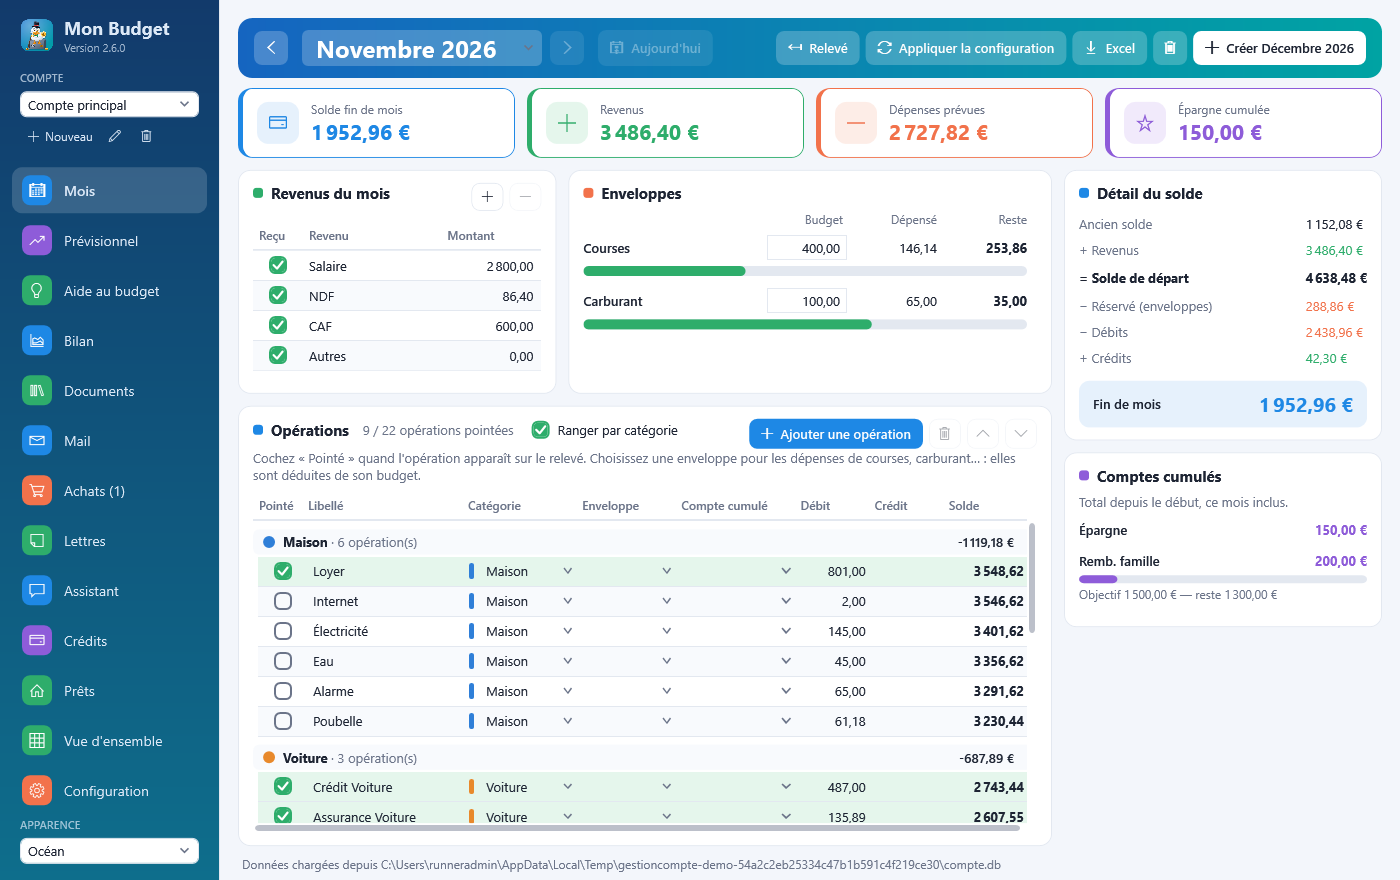
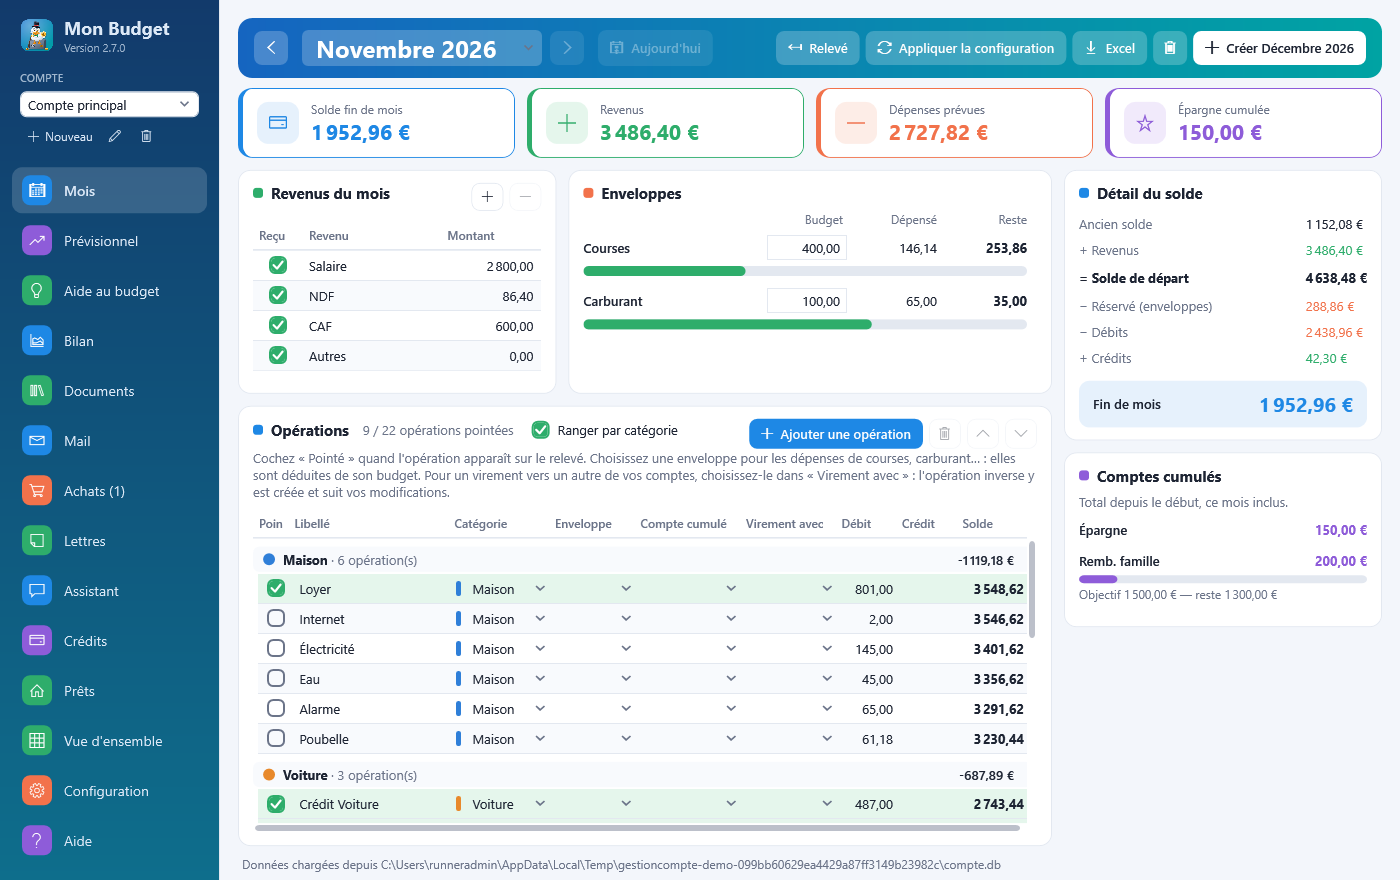
2.7.0 : liste des chapitres lisible en mode sombre, colonne Virement avec élargie, captures du manuel [skip ci]
Claude-Session: https://claude.ai/code/session_01Xu3fDh8oY8WgRR6QbamwNR

diff --git a/docs/manuel/manuel.html b/docs/manuel/manuel.html
@@ -121,6 +121,11 @@ th { color: var(--doux); font-weight: normal; font-size: 8.5pt; text-transform: 
 </section>
 
 <section class="page">
+  <h3>Virements entre vos comptes</h3>
+  <figure class="grand"><img src="images/33-virement-lie-ocean.png" alt="Virement lié"><figcaption>« Virement vers le livret » : 200 € débités ici sont crédités automatiquement dans « Livret A ».</figcaption></figure>
+</section>
+
+<section class="page">
   <h2>4. Importer un relevé</h2>
   <p>Téléchargez le relevé sur le site de votre banque au format <b>OFX</b>, puis « Relevé » (onglet Mois) ou « Importer un relevé… » (barre de gauche). Le fichier est lu sur votre PC uniquement.</p>
   <figure><img src="images/12-import-ocean.png" alt="Import du relevé"><figcaption>Chaque ligne du relevé est rapprochée d'une opération prévue ou ajoutée.</figcaption></figure>

diff --git a/src/GestionCompte.App/Vues/VueMois.xaml b/src/GestionCompte.App/Vues/VueMois.xaml
@@ -319,7 +319,7 @@
                                 </DataTemplate>
                             </DataGridTemplateColumn.CellTemplate>
                         </DataGridTemplateColumn>
-                        <DataGridTemplateColumn x:Name="ColonneVirement" Header="Virement avec" Width="130">
+                        <DataGridTemplateColumn x:Name="ColonneVirement" Header="Virement avec" Width="155">
                             <DataGridTemplateColumn.CellTemplate>
                                 <DataTemplate>
                                     <DockPanel ToolTip="{Binding InfoLien}">

diff --git a/src/GestionCompte.App/Vues/VueManuel.xaml b/src/GestionCompte.App/Vues/VueManuel.xaml
@@ -37,7 +37,7 @@
                              ScrollViewer.HorizontalScrollBarVisibility="Disabled">
                         <ListBox.ItemTemplate>
                             <DataTemplate>
-                                <TextBlock Text="{Binding Titre}" Margin="4,5" TextWrapping="Wrap" FontSize="13" />
+                                <TextBlock Text="{Binding Titre}" Margin="4,5" TextWrapping="Wrap" FontSize="13" Foreground="{DynamicResource Texte}" />
                             </DataTemplate>
                         </ListBox.ItemTemplate>
                     </ListBox>
